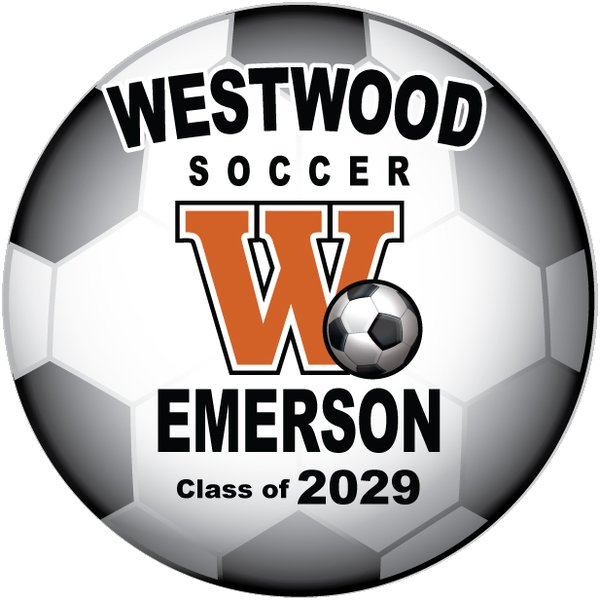
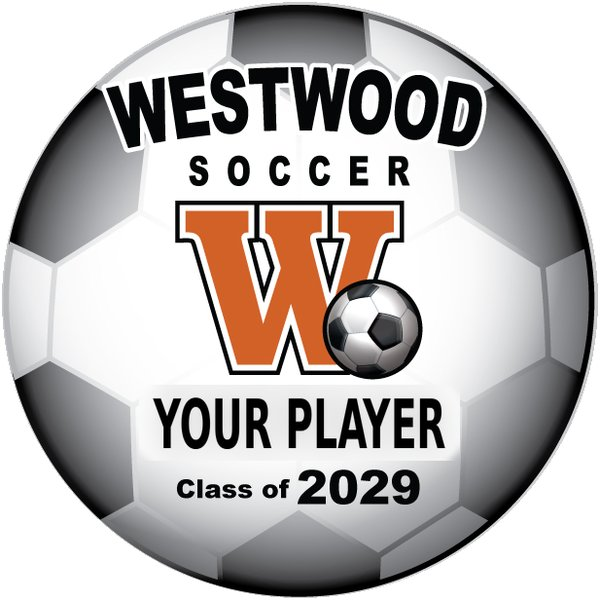
Yard sign sample: replace player name with 'Your Player'
Claude-Session: https://claude.ai/code/session_01JYipRBamUTaPM9zyw9npwB

Changed region(s): [[0.24, 0.63, 0.78, 0.78]]

diff --git a/index.html b/index.html
@@ -435,7 +435,7 @@ footer .wrap{display:flex;justify-content:space-between;gap:16px;flex-wrap:wrap}
       <a class="lnk" href="https://x.com/WWGirlsSoccer" target="_blank" rel="noopener"><b>Twitter / X</b><span>Live game updates, scores and team news.</span><em>Follow @WWGirlsSoccer <span aria-hidden="true">→</span></em></a>
     </div>
     <div class="yardsign" id="yard-signs">
-      <img src="photos/yard-sign-2026-27.jpg" alt="Sample yard sign: a round soccer ball design reading Westwood Soccer, with the orange Westwood W, the player name Emerson and Class of 2029." width="600" height="600" loading="lazy">
+      <img src="photos/yard-sign-2026-27.jpg" alt="Sample yard sign: a round soccer ball design reading Westwood Soccer, with the orange Westwood W, a spot for your player’s name, and their class year." width="600" height="600" loading="lazy">
       <div>
         <div class="eyebrow">2026–27 player yard signs</div>
         <h3>Show your Warrior pride</h3>
